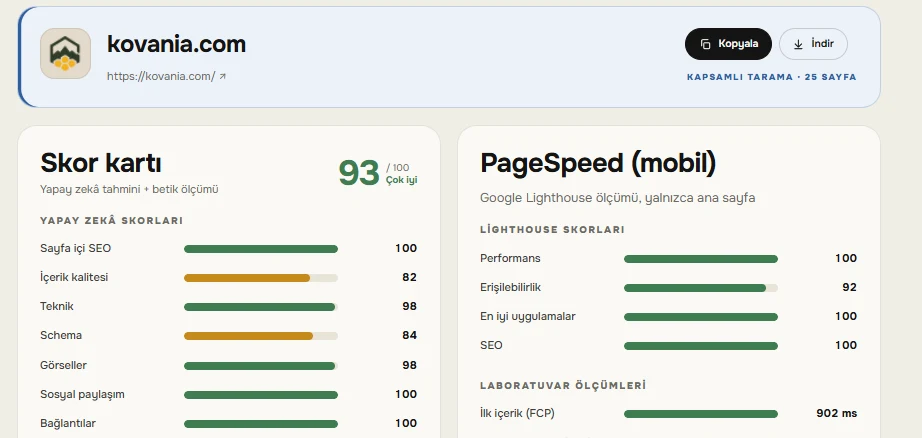
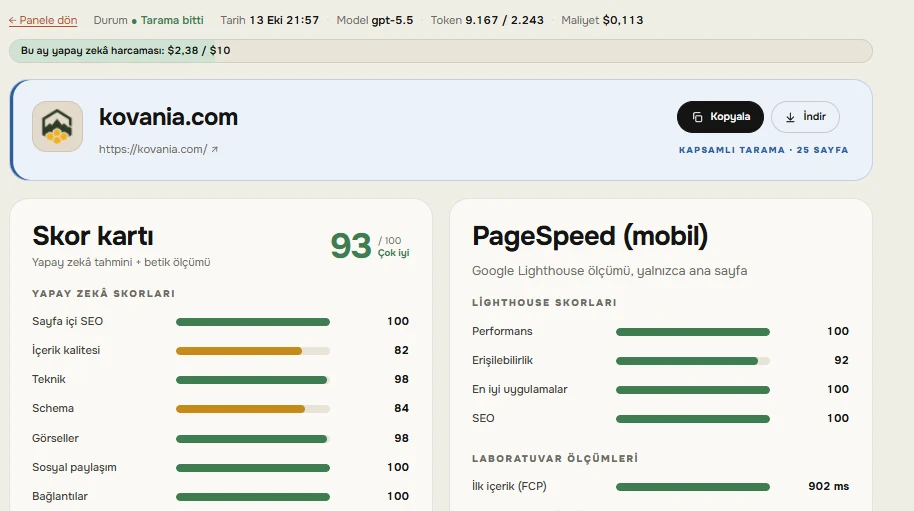
Show cost tracking

diff --git a/README.md b/README.md
@@ -23,6 +23,14 @@ On kovania.com the panel found missing rich-result fields, thin pages and on-pag
 
 On-page SEO 74 → 100, schema 65 → 84, social sharing 72 → 100, mobile performance 98 → 100.
 
+## Cost tracking
+
+Every run records the model, tokens used and its cost; a monthly bar shows AI spending against the budget, next to the list of weekly-monitored sites. A typical analysis costs about $0.11–0.17.
+
+![Run line: status, date, model, tokens, cost](images/cost-run.webp)
+
+![Monthly AI spending bar and weekly-monitored sites](images/cost-budget.webp)
+
 ## Built on
 
 Page collection builds on an open-source SEO audit toolkit (MIT) that was installed and then extended. The panel itself, the exact checks, the scoring, the report pipeline and model choice, the weekly runs, the budget cap and the Markdown export are Skynon's own work.
@@ -48,7 +56,7 @@ flowchart LR
 
 - Python service behind a password-protected reverse proxy; analysis history in SQLite.
 - Measurable things are decided by code, not by the model; the model only explains and prioritises the findings.
-- Monthly spending cap: when the budget is reached the panel keeps collecting data but stops calling the model.
+- Cost per analysis tracked (model, tokens, $); monthly spending cap: when the budget is reached the panel keeps collecting data but stops calling the model.
 - Score card coloured by grade (Weak, Fair, Good, Very good), PageSpeed metrics as bars, live progress screen showing the real analysis stages, report export as Markdown.
 - Command-line entry point so the same analysis can be run from scripts.
 

diff --git a/README.tr.md b/README.tr.md
@@ -4,6 +4,8 @@ Skynon Labs'ın iç SEO paneli. Bir adres yazılır; panel sayfayı tarar, ölç
 
 **Sonuç:** kovania.com'da panelin bulduğu eksikler düzeltildikten sonra site geneli SEO puanı **78'den 93'e** çıktı; mobil PageSpeed performansı 100. skynonlabs.com'da aynı döngüyle puan 79'dan 88'e çıktı. Kovania'da sayfa içi SEO 74 → 100, schema 65 → 84, sosyal paylaşım 72 → 100 oldu.
 
+**Maliyet takibi:** Her analizde model, harcanan token ve maliyet kaydedilir; aylık harcama çubuğu bütçeye göre ne kadar harcandığını gösterir. Bir analiz yaklaşık 0,11–0,17 $ tutar.
+
 **Temel:** Sayfa toplama kısmı, kurulup üzerine geliştirilen açık kaynak (MIT) bir SEO denetim araç setine dayanır. Panel, kesin ölçümlü kontroller, puanlama, rapor akışı ve model seçimi, haftalık analiz, bütçe sınırı ve Markdown dışa aktarma Skynon'un kendi işidir.
 
 Neler denetlendiği ve mimari: [README.md](README.md)
